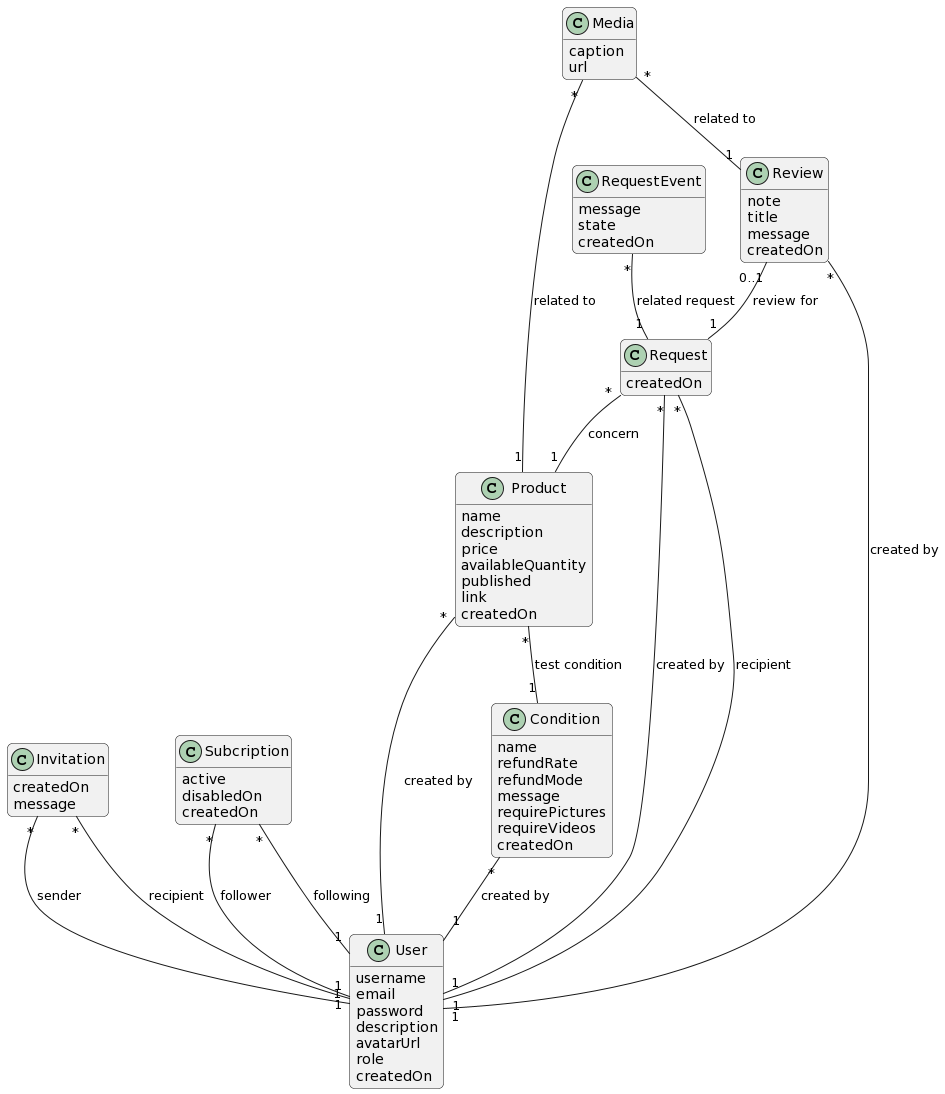
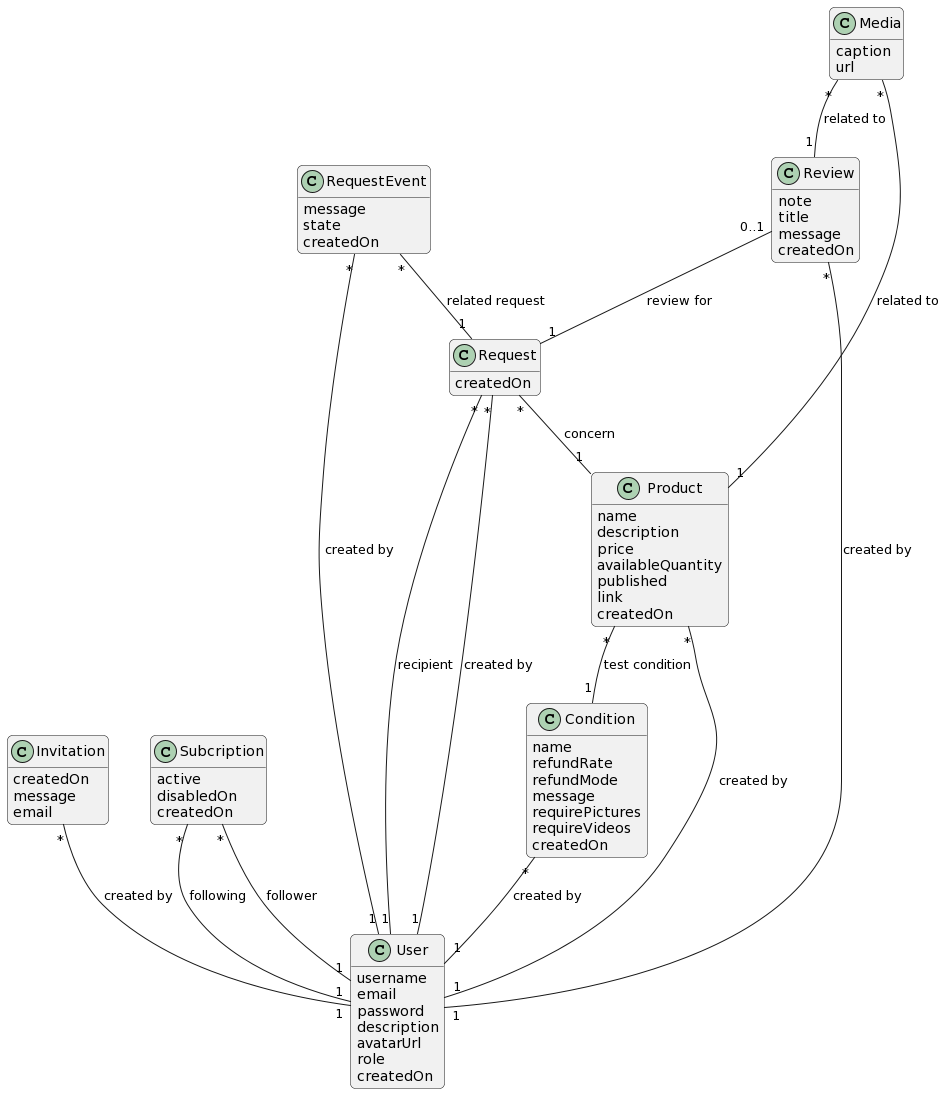
feat(model): update conceptual diagram and transcription to logical

diff --git a/models/logical.md b/models/logical.md
@@ -53,7 +53,8 @@
     message, 
     state, 
     createdOn,
-    requestId<sub>FK</sub>)
+    requestId<sub>FK</sub>,
+    createdBy<sub>FK</sub>)
 
 **Review**(
     <u>reviewId</u>, 
@@ -61,6 +62,7 @@
     title, 
     message, 
     createdOn, 
+    relatedTo<sub>FK</sub>,
     createdBy<sub>FK</sub>)
 
 **Subscription**(
